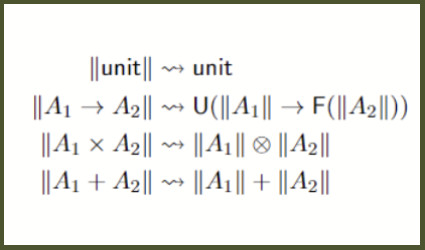
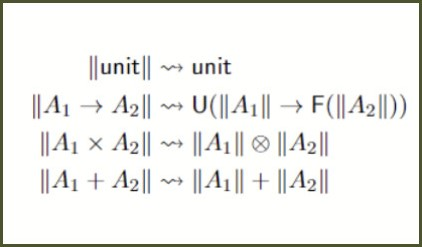
fix file extension woops

diff --git a/docs/_includes/projects.html b/docs/_includes/projects.html
@@ -3,7 +3,7 @@
 </div>
 <div class="user-projects">
   <div class="images-right">
-    <img alt="type translation" src="{{ "/assets/img/compile-web.png" | prepend: site.baseurl }}" />
+    <img alt="type translation" src="{{ "/assets/img/compile-web.jpg" | prepend: site.baseurl }}" />
   </div>
   <div class="contents">
     <h3> CompileBPV </h3>
